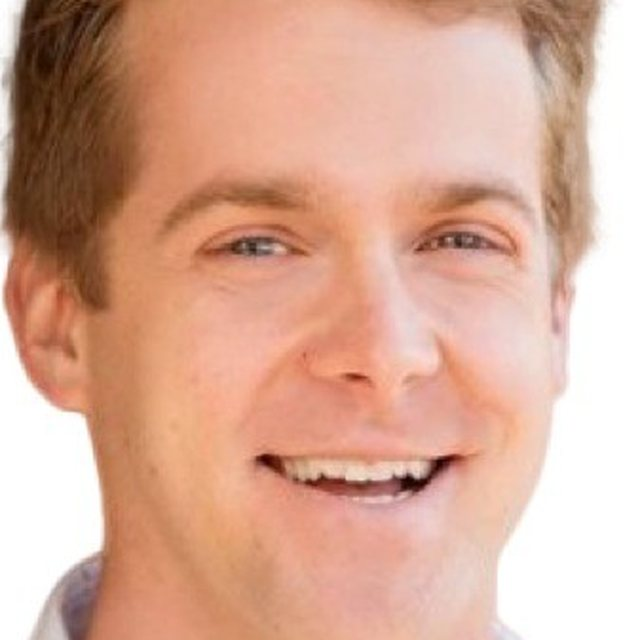
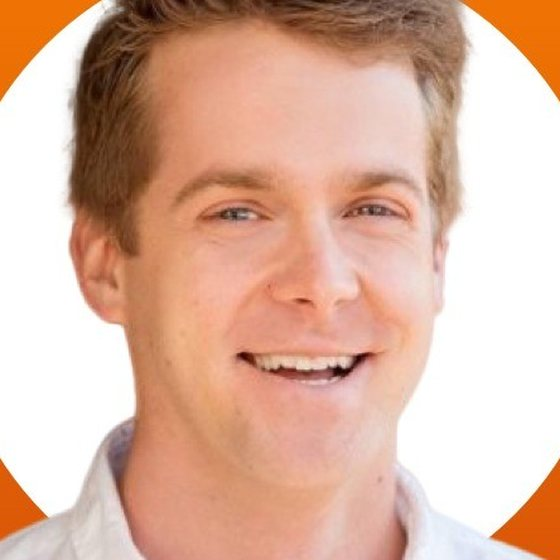
Community Boost summit page: Cameron's photo as a circle (the only source has an orange ring)
Claude-Session: https://claude.ai/code/session_011DXSQgZCw5pAHaYTBe73nr

diff --git a/community-boost/nms-2027/index.html b/community-boost/nms-2027/index.html
@@ -298,10 +298,10 @@ h2{font-size:clamp(30px,4vw,46px)}
 
 /* ---------- host ---------- */
 .host{display:grid;grid-template-columns:.8fr 1.2fr;gap:64px;align-items:center}
-.hp{position:relative}
-.hp .im{border-radius:22px;overflow:hidden;aspect-ratio:1;background:var(--tint)}
+.hp{position:relative;max-width:420px}
+.hp .im{border-radius:50%;overflow:hidden;aspect-ratio:1;max-width:400px;box-shadow:0 0 0 10px #fff,0 0 0 11px var(--line);background:var(--tint)}
 .hp .im img{width:100%;height:100%;object-fit:cover}
-.hp .badge{position:absolute;right:-18px;bottom:28px;background:#fff;border-radius:14px;padding:14px 16px;box-shadow:0 20px 40px -20px rgba(28,43,28,.45),0 0 0 1px var(--line);display:flex;align-items:center;gap:12px}
+.hp .badge{position:absolute;right:0;bottom:18px;background:#fff;border-radius:14px;padding:14px 16px;box-shadow:0 20px 40px -20px rgba(28,43,28,.45),0 0 0 1px var(--line);display:flex;align-items:center;gap:12px}
 .hp .badge img{height:28px;width:auto}
 .hp .badge span{font-size:12.5px;color:var(--mute);line-height:1.3}
 .letter p{font-size:19px;color:var(--ink);line-height:1.6;margin-bottom:16px}
